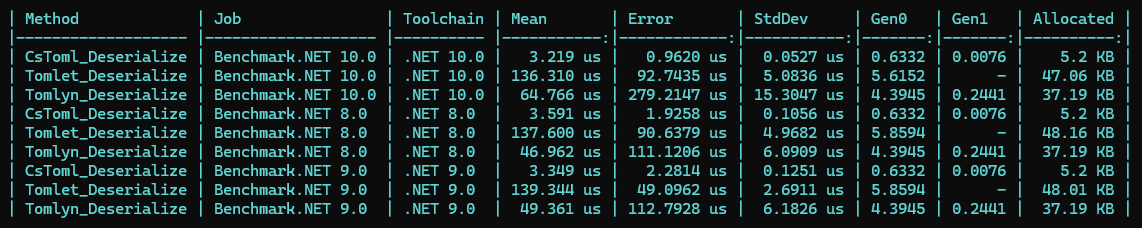
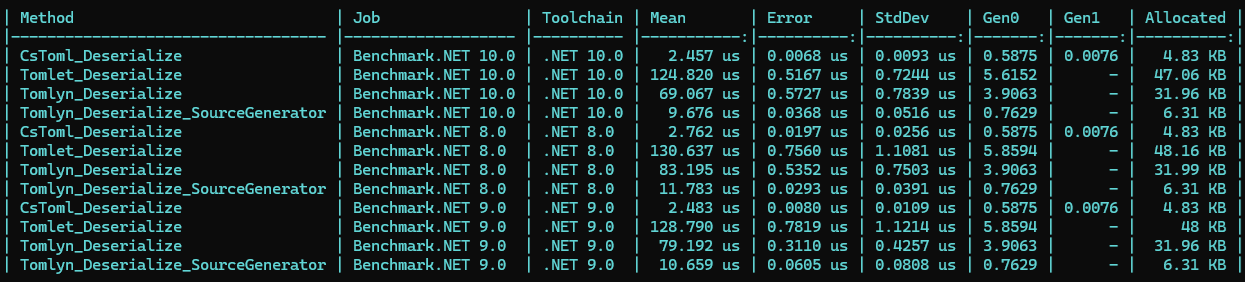
Upgrade v1.8.5 (#114)

diff --git a/README.md b/README.md
@@ -12,7 +12,7 @@ For more information about TOML, visit the official website at [https://toml.io/
 
 ![Parse Toml text](./img/benchmark_parse.png)
 
-> This benchmark parses a string (string) into a TOML object. I used [Tommy](https://github.com/dezhidki/Tommy), [Tomlet](https://github.com/SamboyCoding/Tomlet) and [Tomlyn](https://github.com/xoofx/Tomlyn) for comparison. `CsToml(v1.8.0)` includes additional `UTF8.GetBytes` calls. This benchmark code is [sandbox/Benchmark](https://github.com/prozolic/CsToml/blob/main/sandbox/Benchmark/Benchmark/ParseBenchmark.cs).
+> This benchmark parses a string (string) into a TOML object. I used [Tommy](https://github.com/dezhidki/Tommy), [Tomlet](https://github.com/SamboyCoding/Tomlet) and [Tomlyn](https://github.com/xoofx/Tomlyn) for comparison. `CsToml(v1.8.5)` includes additional `UTF8.GetBytes` calls. This benchmark code is [sandbox/Benchmark](https://github.com/prozolic/CsToml/blob/main/sandbox/Benchmark/Benchmark/ParseBenchmark.cs).
 
 ![Serialize TestTomlSerializedObject (9 values with table and array of tables)](./img/benchmark_serialization.png)
 ![Deserialize TestTomlSerializedObject (9 values with table and array of tables)](./img/benchmark_deserialization.png)
@@ -163,7 +163,6 @@ namespace ConsoleApp;
 
 partial class CsTomlClass : ITomlSerializedObject<CsTomlClass?>
 {
-
     static CsTomlClass? ITomlSerializedObject<CsTomlClass?>.Deserialize(ref TomlDocumentNode rootNode, CsTomlSerializerOptions options)
     {
         if (!(rootNode.HasValue || rootNode.IsTableHeader)) return default;
@@ -205,44 +204,44 @@ partial class CsTomlClass : ITomlSerializedObject<CsTomlClass?>
         {
             if (target.Key != null || options.SerializeOptions.DefaultNullHandling == TomlNullHandling.Error)
             {
-                writer.WriteKey(@"Key"u8);
+                writer.WriteBareKey(@"Key"u8, skipValidation: true);
                 writer.WriteEqual();
                 options.Resolver.GetFormatter<string>()!.Serialize(ref writer, target.Key, options);
                 writer.EndKeyValue(lastValue_Key);
             }
             if (target.Number != null || options.SerializeOptions.DefaultNullHandling == TomlNullHandling.Error)
             {
-                writer.WriteKey(@"Number"u8);
+                writer.WriteBareKey(@"Number"u8, skipValidation: true);
                 writer.WriteEqual();
                 options.Resolver.GetFormatter<int?>()!.Serialize(ref writer, target.Number, options);
                 writer.EndKeyValue(lastValue_Number);
             }
             if (target.Value != null || options.SerializeOptions.DefaultNullHandling == TomlNullHandling.Error)
             {
-                writer.WriteKey(@"alias"u8);
+                writer.WriteBareKey(@"alias"u8, skipValidation: true);
                 writer.WriteEqual();
                 options.Resolver.GetFormatter<string>()!.Serialize(ref writer, target.Value, options);
                 writer.EndKeyValue(lastValue_Value);
             }
             if (target.Array != null || options.SerializeOptions.DefaultNullHandling == TomlNullHandling.Error)
             {
-                writer.WriteKey(@"Array"u8);
+                writer.WriteBareKey(@"Array"u8, skipValidation: true);
                 writer.WriteEqual();
                 options.Resolver.GetFormatter<int[]>()!.Serialize(ref writer, target.Array, options);
                 writer.EndKeyValue(lastValue_Array);
             }
             if (options.SerializeOptions.TableStyle == TomlTableStyle.Header && (writer.State == TomlValueState.Default || writer.State == TomlValueState.Table)){
-                writer.WriteTableHeader(@"Table"u8);
+                writer.WriteBareTableHeader(@"Table"u8, skipValidation: true);
                 writer.WriteNewLine();
                 writer.BeginCurrentState(TomlValueState.Table);
-                writer.PushKey(@"Table"u8);
+                writer.PushBareKey(CsTomlKeyCache.__generated__Table, skipValidation: true);
                 options.Resolver.GetFormatter<global::ConsoleApp.TableClass>()!.Serialize(ref writer, target.Table, options);
                 writer.PopKey();
                 writer.EndCurrentState();
             }
             else
             {
-                writer.WriteKey(@"Table"u8);
+                writer.WriteBareKey(@"Table"u8, skipValidation: true);
                 writer.WriteEqual();
                 writer.BeginCurrentState(TomlValueState.ArrayOfTable);
                 options.Resolver.GetFormatter<global::ConsoleApp.TableClass>()!.Serialize(ref writer, target.Table, options);
@@ -254,44 +253,44 @@ partial class CsTomlClass : ITomlSerializedObject<CsTomlClass?>
         {
             if (target.Key != null || options.SerializeOptions.DefaultNullHandling == TomlNullHandling.Error)
             {
-                writer.WriteKey(@"Key"u8);
+                writer.WriteBareKey(@"Key"u8, skipValidation: true);
                 writer.WriteEqual();
                 options.Resolver.GetFormatter<string>()!.Serialize(ref writer, target.Key, options);
                 writer.EndKeyValue(lastValue_Key);
             }
             if (target.Number != null || options.SerializeOptions.DefaultNullHandling == TomlNullHandling.Error)
             {
-                writer.WriteKey(@"Number"u8);
+                writer.WriteBareKey(@"Number"u8, skipValidation: true);
                 writer.WriteEqual();
                 options.Resolver.GetFormatter<int?>()!.Serialize(ref writer, target.Number, options);
                 writer.EndKeyValue(lastValue_Number);
             }
             if (target.Value != null || options.SerializeOptions.DefaultNullHandling == TomlNullHandling.Error)
             {
-                writer.WriteKey(@"alias"u8);
+                writer.WriteBareKey(@"alias"u8, skipValidation: true);
                 writer.WriteEqual();
                 options.Resolver.GetFormatter<string>()!.Serialize(ref writer, target.Value, options);
                 writer.EndKeyValue(lastValue_Value);
             }
             if (target.Array != null || options.SerializeOptions.DefaultNullHandling == TomlNullHandling.Error)
             {
-                writer.WriteKey(@"Array"u8);
+                writer.WriteBareKey(@"Array"u8, skipValidation: true);
                 writer.WriteEqual();
                 options.Resolver.GetFormatter<int[]>()!.Serialize(ref writer, target.Array, options);
                 writer.EndKeyValue(lastValue_Array);
             }
             if (options.SerializeOptions.TableStyle == TomlTableStyle.Header && (writer.State == TomlValueState.Default || writer.State == TomlValueState.Table)){
-                writer.WriteTableHeader(@"Table"u8);
+                writer.WriteBareTableHeader(@"Table"u8, skipValidation: true);
                 writer.WriteNewLine();
                 writer.BeginCurrentState(TomlValueState.Table);
-                writer.PushKey(@"Table"u8);
+                writer.PushBareKey(CsTomlKeyCache.__generated__Table, skipValidation: true);
                 options.Resolver.GetFormatter<global::ConsoleApp.TableClass>()!.Serialize(ref writer, target.Table, options);
                 writer.PopKey();
                 writer.EndCurrentState();
             }
             else
             {
-                writer.WriteKey(@"Table"u8);
+                writer.WriteBareKey(@"Table"u8, skipValidation: true);
                 writer.WriteEqual();
                 writer.BeginCurrentState(TomlValueState.ArrayOfTable);
                 options.Resolver.GetFormatter<global::ConsoleApp.TableClass>()!.Serialize(ref writer, target.Table, options);
@@ -315,6 +314,30 @@ partial class CsTomlClass : ITomlSerializedObject<CsTomlClass?>
         }
 
         // Register Formatter in advance.
+        if (!TomlValueFormatterResolver.IsRegistered<global::System.Collections.Generic.IEnumerable<char>>())
+        {
+            TomlValueFormatterResolver.Register(new IEnumerableFormatter<char>());
+        }
+        if (!TomlValueFormatterResolver.IsRegistered<global::System.Collections.Generic.IList<int>>())
+        {
+            TomlValueFormatterResolver.Register(new IListFormatter<int>());
+        }
+        if (!TomlValueFormatterResolver.IsRegistered<global::System.Collections.Generic.ICollection<int>>())
+        {
+            TomlValueFormatterResolver.Register(new ICollectionFormatter<int>());
+        }
+        if (!TomlValueFormatterResolver.IsRegistered<global::System.Collections.Generic.IEnumerable<int>>())
+        {
+            TomlValueFormatterResolver.Register(new IEnumerableFormatter<int>());
+        }
+        if (!TomlValueFormatterResolver.IsRegistered<global::System.Collections.Generic.IReadOnlyList<int>>())
+        {
+            TomlValueFormatterResolver.Register(new IReadOnlyListFormatter<int>());
+        }
+        if (!TomlValueFormatterResolver.IsRegistered<global::System.Collections.Generic.IReadOnlyCollection<int>>())
+        {
+            TomlValueFormatterResolver.Register(new IReadOnlyCollectionFormatter<int>());
+        }
         if (!TomlValueFormatterResolver.IsRegistered<global::ConsoleApp.TableClass>())
         {
             TomlValueFormatterResolver.Register<global::ConsoleApp.TableClass>();
@@ -349,7 +372,6 @@ namespace ConsoleApp;
 
 partial class TableClass : ITomlSerializedObject<TableClass?>
 {
-
     static TableClass? ITomlSerializedObject<TableClass?>.Deserialize(ref TomlDocumentNode rootNode, CsTomlSerializerOptions options)
     {
         if (!(rootNode.HasValue || rootNode.IsTableHeader)) return default;
@@ -377,12 +399,12 @@ partial class TableClass : ITomlSerializedObject<TableClass?>
         writer.BeginScope();
         if (target.Key != null || options.SerializeOptions.DefaultNullHandling == TomlNullHandling.Error)
         {
-            writer.WriteKey(@"Key"u8);
+            writer.WriteBareKey(@"Key"u8, skipValidation: true);
             writer.WriteEqual();
             options.Resolver.GetFormatter<string>()!.Serialize(ref writer, target.Key, options);
             writer.EndKeyValue(lastValue_Key);
         }
-        writer.WriteKey(@"Number"u8);
+        writer.WriteBareKey(@"Number"u8, skipValidation: true);
         writer.WriteEqual();
         options.Resolver.GetFormatter<int>()!.Serialize(ref writer, target.Number, options);
         writer.EndKeyValue(lastValue_Number);
@@ -402,8 +424,34 @@ partial class TableClass : ITomlSerializedObject<TableClass?>
         }
 
         // Register Formatter in advance.
+        if (!TomlValueFormatterResolver.IsRegistered<global::System.Collections.Generic.IEnumerable<char>>())
+        {
+            TomlValueFormatterResolver.Register(new IEnumerableFormatter<char>());
+        }
 
     }
+}
+```
+
+</details>
+
+<details><summary>Generated Code(CsTomlKeyCache_generated.g.cs)</summary>
+
+```csharp
+// <auto-generated> This .cs file is generated by CsToml.Generator. </auto-generated>
+#nullable enable
+#pragma warning disable
+
+using System.ComponentModel;
+using System.Collections.Immutable;
+
+namespace CsToml;
+
+[EditorBrowsable(EditorBrowsableState.Never)]
+internal static class CsTomlKeyCache
+{
+    internal static readonly ImmutableArray<byte> __generated__Table = ImmutableArray.Create("Table"u8);
+
 }
 ```
 
@@ -428,11 +476,10 @@ var value = CsTomlSerializer.Deserialize<CsTomlClass>(tomlText);
 using var serializedText = CsTomlSerializer.Serialize(value);
 
 // Key = "value"
+// Number = 123
 // alias = "alias"
 // Array = [ 1, 2, 3 ]
-// Number = 123
-// Table.Key = "value"
-// Table.Number = 123
+// Table = {Key = "value", Number = 123}
 var serializedTomlText = Encoding.UTF8.GetString(serializedText.ByteSpan);
 ```
 
@@ -682,20 +729,19 @@ In the case of TomlTableStyle.Default, serialize as follows.
 
 ```toml
 Key = "value"
+Number = 123
 alias = "alias"
 Array = [ 1, 2, 3 ]
-Number = 123
-Table.Key = "kEY"
-Table.Number = 123
+Table = {Key = "kEY", Number = 123}
 ```
 
 In the case of TomlTableStyle.Header, serialize as follows.
 
 ```toml
 Key = "value"
+Number = 123
 alias = "alias"
 Array = [ 1, 2, 3 ]
-Number = 123
 [Table]
 Key = "kEY"
 Number = 123
